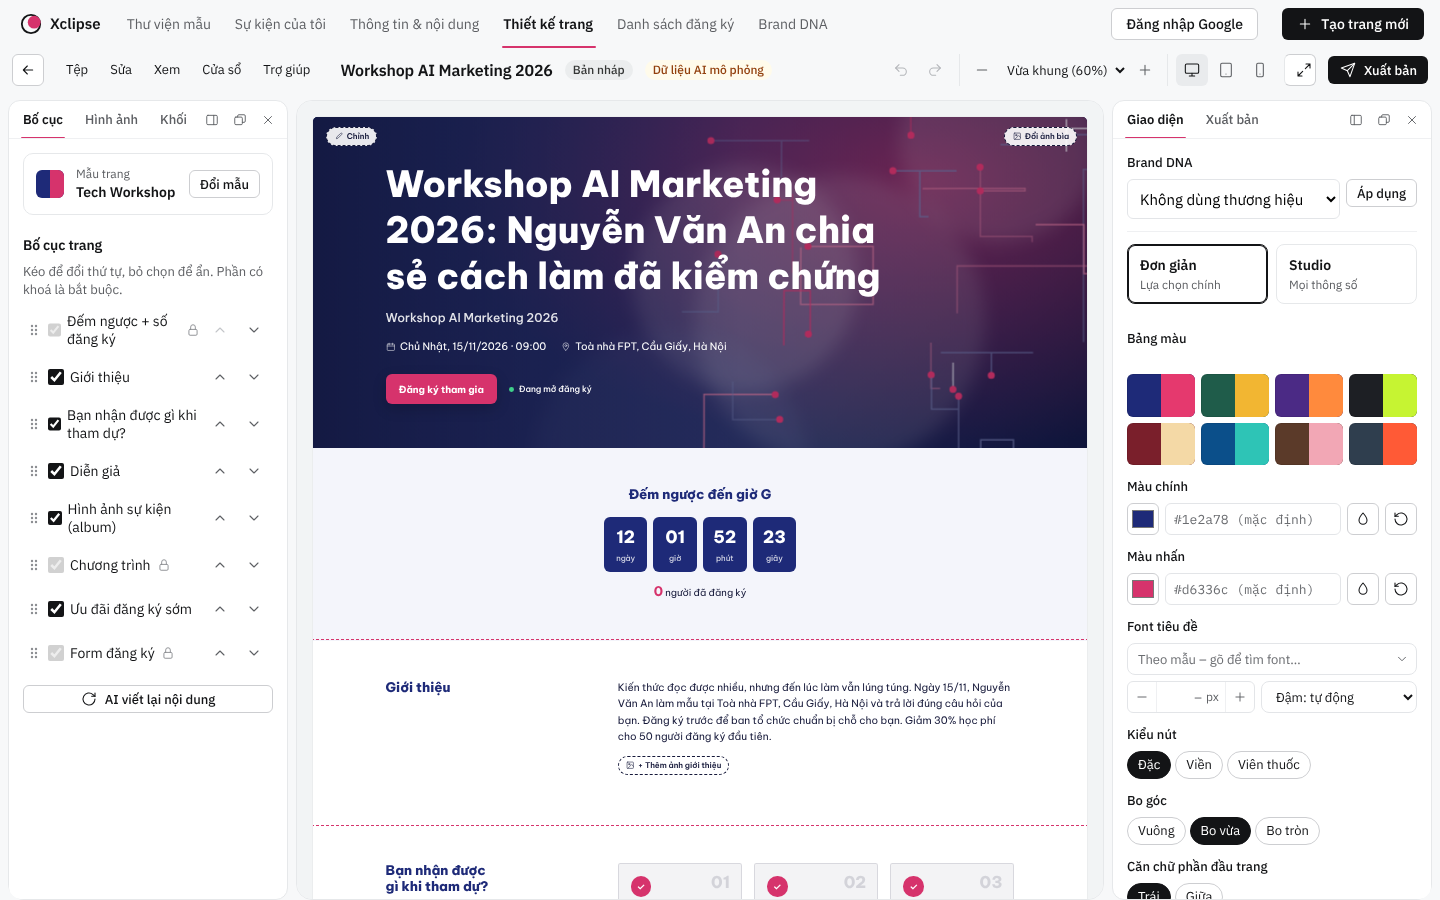
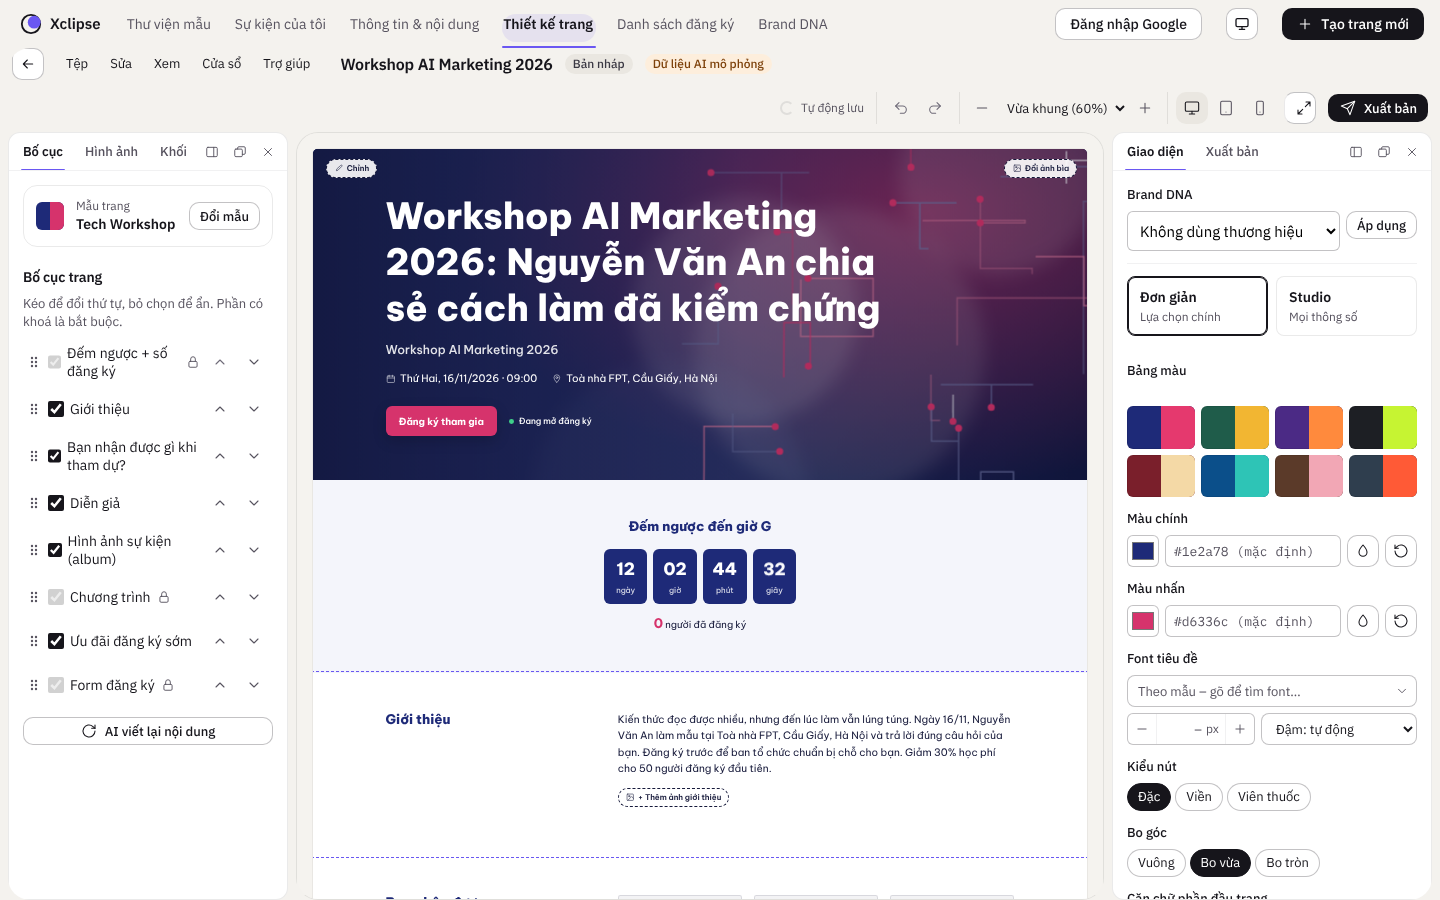
Lucian Lab UI: components in app, landing motion, theme; v2.8.0
Claude-Session: https://claude.ai/code/session_0184XPwtsnnR2N5roWu2rmSy

diff --git a/index.html b/index.html
@@ -31,9 +31,9 @@
   <link rel="preconnect" href="https://fonts.gstatic.com" crossorigin>
   <link rel="stylesheet" href="https://fonts.googleapis.com/css2?family=IBM+Plex+Sans:wght@400;500;600&family=IBM+Plex+Mono:wght@400;500&display=swap">
   <link rel="stylesheet" href="https://fonts.googleapis.com/css2?family=Be+Vietnam+Pro:wght@400;500;600;700;800&family=Playfair+Display:wght@600;700&family=Montserrat:wght@500;700;800&family=Nunito:wght@400;600;800&family=Lora:wght@500;700&display=swap">
-  <link rel="stylesheet" href="css/tokens.css?v=2.7.0">
-  <link rel="stylesheet" href="css/app.css?v=2.7.0">
-  <link rel="stylesheet" href="css/landing.css?v=2.7.0">
+  <link rel="stylesheet" href="css/tokens.css?v=2.8.0">
+  <link rel="stylesheet" href="css/app.css?v=2.8.0">
+  <link rel="stylesheet" href="css/landing.css?v=2.8.0">
   <script>/* áp theme đã chọn trước khi vẽ (không chọn = theo hệ thống) */
 (function(d){try{var t=localStorage.getItem('ep_theme');if(t==='light'||t==='dark')d.setAttribute('data-theme',t);}catch(e){}})(document.documentElement);</script>
   <script>/* chọn tab đầu trước khi vẽ: link chia sẻ ẩn app; người từng đăng nhập vào thẳng "Sự kiện của tôi" */
@@ -606,36 +606,36 @@
   <script src="vendor/firebase/firebase-auth-compat.js"></script>
   <script src="vendor/firebase/firebase-firestore-compat.js"></script>
   <script src="vendor/qrcode/qrcode.js"></script>
-  <script defer src="js/firebase-config.js?v=2.7.0"></script>
-  <script defer src="js/storage.js?v=2.7.0"></script>
-  <script defer src="js/validators.js?v=2.7.0"></script>
-  <script defer src="js/event-status.js?v=2.7.0"></script>
-  <script defer src="js/registrations.js?v=2.7.0"></script>
-  <script defer src="js/content-generator.js?v=2.7.0"></script>
-  <script defer src="js/ai-service.js?v=2.7.0"></script>
-  <script defer src="js/sheet-sync.js?v=2.7.0"></script>
-  <script defer src="js/cloud.js?v=2.7.0"></script>
-  <script defer src="js/templates-data.js?v=2.7.0"></script>
-  <script defer src="js/templates.js?v=2.7.0"></script>
-  <script defer src="js/images.js?v=2.7.0"></script>
-  <script defer src="js/media-library.js?v=2.7.0"></script>
-  <script defer src="js/image-editor.js?v=2.7.0"></script>
-  <script defer src="js/brands.js?v=2.7.0"></script>
-  <script defer src="js/brand-ai.js?v=2.7.0"></script>
-  <script defer src="js/icons.js?v=2.7.0"></script>
-  <script defer src="js/motion.js?v=2.7.0"></script>
-  <script defer src="js/page-style.js?v=2.7.0"></script>
-  <script defer src="js/lp-utils.js?v=2.7.0"></script>
-  <script defer src="js/seo.js?v=2.7.0"></script>
-  <script defer src="js/landing-renderer.js?v=2.7.0"></script>
-  <script defer src="js/inspector.js?v=2.7.0"></script>
-  <script defer src="js/workspace.js?v=2.7.0"></script>
-  <script defer src="js/version.js?v=2.7.0"></script>
-  <script defer src="js/charts.js?v=2.7.0"></script>
-  <script defer src="js/demo-data.js?v=2.7.0"></script>
-  <script defer src="js/popup.js?v=2.7.0"></script>
-  <script defer src="js/ux-lucian.js?v=2.7.0"></script>
-  <script defer src="js/app.js?v=2.7.0"></script>
+  <script defer src="js/firebase-config.js?v=2.8.0"></script>
+  <script defer src="js/storage.js?v=2.8.0"></script>
+  <script defer src="js/validators.js?v=2.8.0"></script>
+  <script defer src="js/event-status.js?v=2.8.0"></script>
+  <script defer src="js/registrations.js?v=2.8.0"></script>
+  <script defer src="js/content-generator.js?v=2.8.0"></script>
+  <script defer src="js/ai-service.js?v=2.8.0"></script>
+  <script defer src="js/sheet-sync.js?v=2.8.0"></script>
+  <script defer src="js/cloud.js?v=2.8.0"></script>
+  <script defer src="js/templates-data.js?v=2.8.0"></script>
+  <script defer src="js/templates.js?v=2.8.0"></script>
+  <script defer src="js/images.js?v=2.8.0"></script>
+  <script defer src="js/media-library.js?v=2.8.0"></script>
+  <script defer src="js/image-editor.js?v=2.8.0"></script>
+  <script defer src="js/brands.js?v=2.8.0"></script>
+  <script defer src="js/brand-ai.js?v=2.8.0"></script>
+  <script defer src="js/icons.js?v=2.8.0"></script>
+  <script defer src="js/motion.js?v=2.8.0"></script>
+  <script defer src="js/page-style.js?v=2.8.0"></script>
+  <script defer src="js/lp-utils.js?v=2.8.0"></script>
+  <script defer src="js/seo.js?v=2.8.0"></script>
+  <script defer src="js/landing-renderer.js?v=2.8.0"></script>
+  <script defer src="js/inspector.js?v=2.8.0"></script>
+  <script defer src="js/workspace.js?v=2.8.0"></script>
+  <script defer src="js/version.js?v=2.8.0"></script>
+  <script defer src="js/charts.js?v=2.8.0"></script>
+  <script defer src="js/demo-data.js?v=2.8.0"></script>
+  <script defer src="js/popup.js?v=2.8.0"></script>
+  <script defer src="js/ux-lucian.js?v=2.8.0"></script>
+  <script defer src="js/app.js?v=2.8.0"></script>
 <script>/* nút giao diện: Theo hệ thống -> Sáng -> Tối */
 (function(){var b=document.getElementById('btn-theme'),r=document.documentElement,L={system:'Theo hệ thống',light:'Sáng',dark:'Tối'},N={system:'light',light:'dark',dark:'system'};
 function get(){try{var t=localStorage.getItem('ep_theme');return t==='light'||t==='dark'?t:'system'}catch(e){return 'system'}}

diff --git a/js/version.js b/js/version.js
@@ -4,9 +4,9 @@
  */
 (function (root) {
   var INFO = {
-    version: '2.7.0',
+    version: '2.8.0',
     date: '2026-10-27',
-    notes: 'Mẫu mới: Khai trương quán cà phê (Mộc) – có sẵn ảnh thật, nội dung, FAQ và meta chia sẻ',
+    notes: 'Giao diện Lucian Lab: màu mới, chế độ tối (theo hệ thống hoặc tự chọn), tab trượt, thông báo xếp chồng, giữ để xoá, tự lưu, Ctrl+K; hiệu ứng mới cho landing page',
     repo: 'ShizukaDreemurr/VibeCodeLandingPageBuilder',
     branch: 'claude/serene-ramanujan-7wxqwr' // nhánh GitHub Pages đang xuất bản
   };
